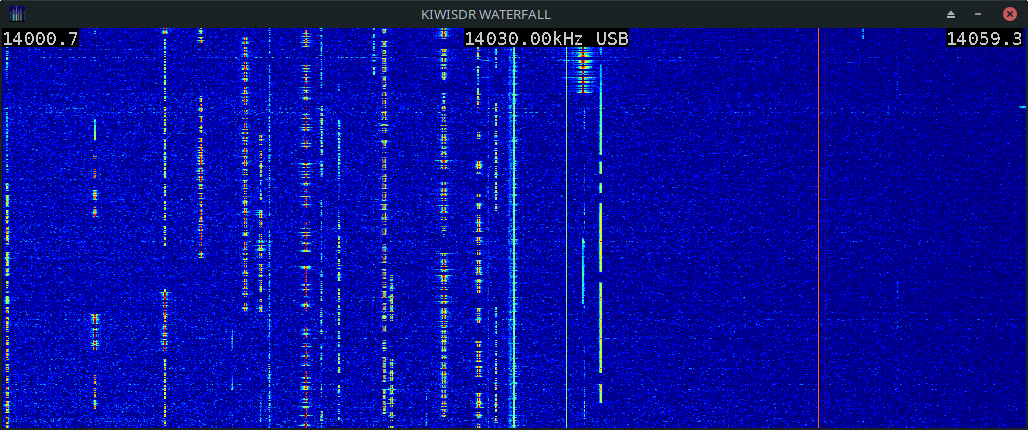
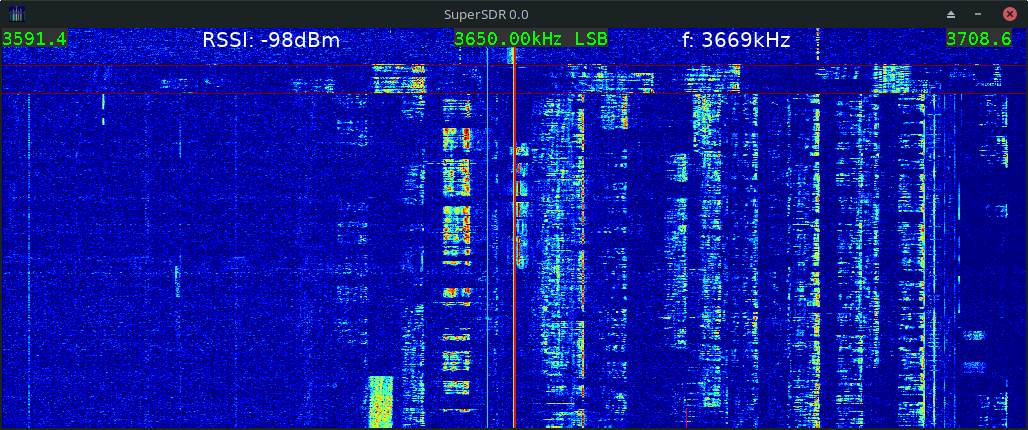
changed online help, README and screenshot image

diff --git a/supersdr_audio.py b/supersdr_audio.py
@@ -8,6 +8,7 @@ import numpy as np
 from scipy import signal
 
 import sys
+print (sys.version_info)
 if sys.version_info > (3,):
     buffer = memoryview
     def bytearray2str(b):
@@ -40,9 +41,9 @@ CHANNELS = 1
 AUDIO_RATE = 48000
 KIWI_RATE = 12000
 SAMPLE_RATIO = int(AUDIO_RATE/KIWI_RATE)
-CHUNKS = 12
+CHUNKS = 20
 KIWI_SAMPLES_PER_FRAME = 512
-FULL_BUFF_LEN = 30
+FULL_BUFF_LEN = 50
 VOLUME = 1.0
 
 # Hardcoded values for most kiwis
@@ -89,6 +90,9 @@ HELP_MESSAGE_LIST = ["COMMANDS HELP",
         "- PAGE UP/DOWN: move freq +/- 1MHz",
         "- UP/DOWN: zoom in/out by a factor 2X",
         "- U/L/C: switches to USB, LSB, CW",
+        "- J/K: change passband (SHIFT inverts increment)",
+        "- O: resets passband to defaults",
+        "- U/L/C: switches to USB, LSB, CW",
         "- F: enter frequency with keyboard",
         "- V/B: up/down volume",
         "- M: mute/unmute",
@@ -111,7 +115,6 @@ def change_passband(radio_mode_, delta_low_, delta_high_):
     elif radio_mode_ == "CW":
         lc_ = LOW_CUT_CW+delta_low_
         hc_ = HIGH_CUT_CW+delta_high_
-    print(lc_, hc_)
     return lc_, hc_
 
 
@@ -127,6 +130,7 @@ def callback(in_data, frame_count, time_info, status):
     print(delta_buff)
     # emergency buffer fillup with silence
     while len(audio_buffer)<CHUNKS:
+        print("!", end=' ')
         audio_buffer.append(np.zeros((KIWI_SAMPLES_PER_FRAME)))
         
     popped = audio_buffer.pop(0)
@@ -410,7 +414,6 @@ print ("Waterfall data stream active...")
 
 # send a sequence of messages to the server, hardcoded for now
 # max wf speed, no compression
-print(kiwi_password)
 msg_list = ['SET auth t=kiwi p=%s'%kiwi_password, 'SET zoom=%d start=%d'%(zoom,cnt),\
 'SET maxdb=0 mindb=-100', 'SET wf_speed=4', 'SET wf_comp=0', 'SET maxdb=-10 mindb=-110']
 for msg in msg_list:
@@ -457,7 +460,7 @@ lc, hc = change_passband(radio_mode, delta_low, delta_high)
 
 msg_list = ["SET auth t=kiwi p=%s"%kiwi_password, "SET mod=%s low_cut=%d high_cut=%d freq=%.3f" %
 (radio_mode.lower(), lc, hc, freq),
-"SET compression=0", "SET ident_user=pippo","SET OVERRIDE inactivity_timeout=1000",
+"SET compression=0", "SET ident_user=SuperSDR","SET OVERRIDE inactivity_timeout=1000",
 "SET agc=%d hang=%d thresh=%d slope=%d decay=%d manGain=%d" % (on, hang, thresh, slope, decay, gain),
 "SET AR OK in=%d out=%d" % (KIWI_RATE, AUDIO_RATE)]
 print (msg_list)
@@ -474,7 +477,7 @@ smallfont = pygame.font.SysFont('Mono',18)
 i_icon = "icon.jpg"
 icon = pygame.image.load(i_icon)
 pygame.display.set_icon(icon)
-pygame.display.set_caption("KIWISDR WATERFALL")
+pygame.display.set_caption("SuperSDR 0.0")
 clock = pygame.time.Clock()
 pygame.key.set_repeat(200, 200)
 
@@ -519,7 +522,6 @@ kiwi_audio_stream.start_stream()
 
 run_index = 0
 while not wf_quit:
-#    print (delta_low, delta_high, lc, hc)
     run_index += 1
     mouse = pygame.mouse.get_pos()
     click_freq = None
@@ -659,12 +661,12 @@ while not wf_quit:
             if event.button == 4: # mouse scroll up
                 if zoom<MAX_ZOOM:
                         zoom += 1
-                        click_freq = kiwi_bins_to_khz(freq, mouse[0], zoom)
+                        click_freq = freq #kiwi_bins_to_khz(freq, mouse[0], zoom)
                         change_zoom_flag = True
             elif event.button == 5: # mouse scroll down
                 if zoom>0:
                         zoom -= 1
-                        click_freq = kiwi_bins_to_khz(freq, mouse[0], zoom)
+                        click_freq = freq #kiwi_bins_to_khz(freq, mouse[0], zoom)
                         change_zoom_flag = True
             elif event.button == 1:
                 if radio_mode == "CW":
